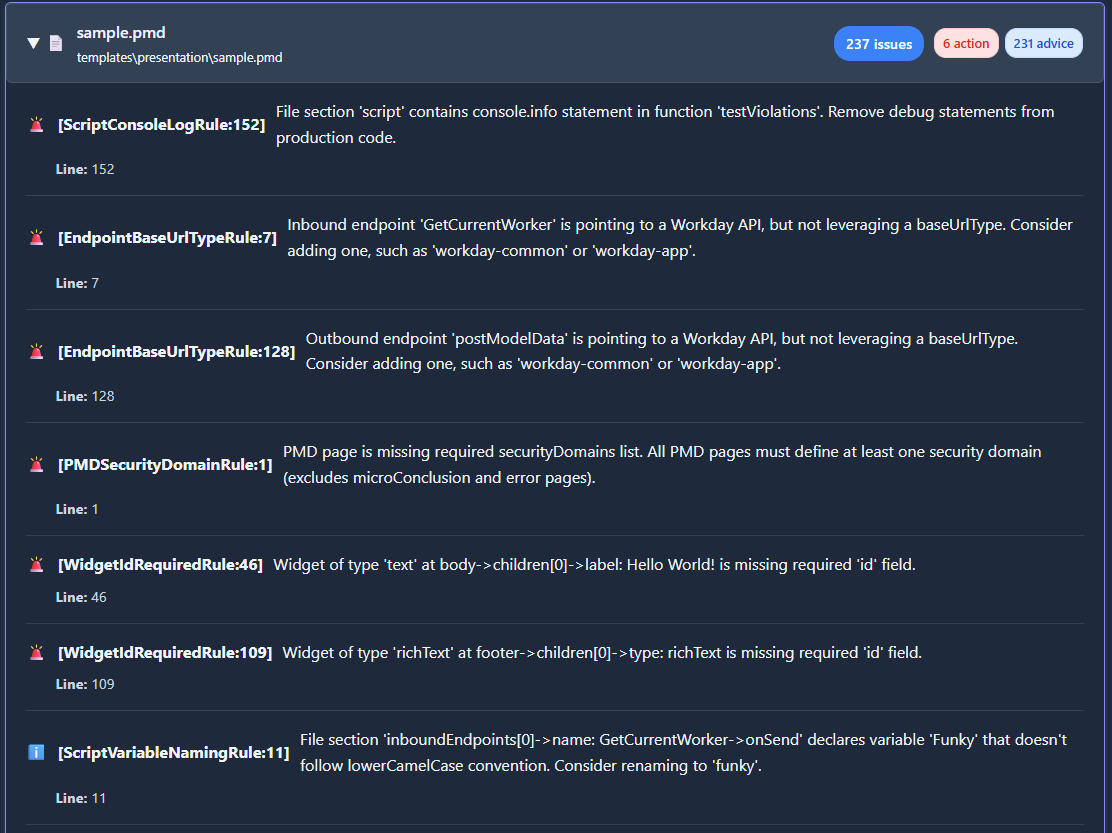
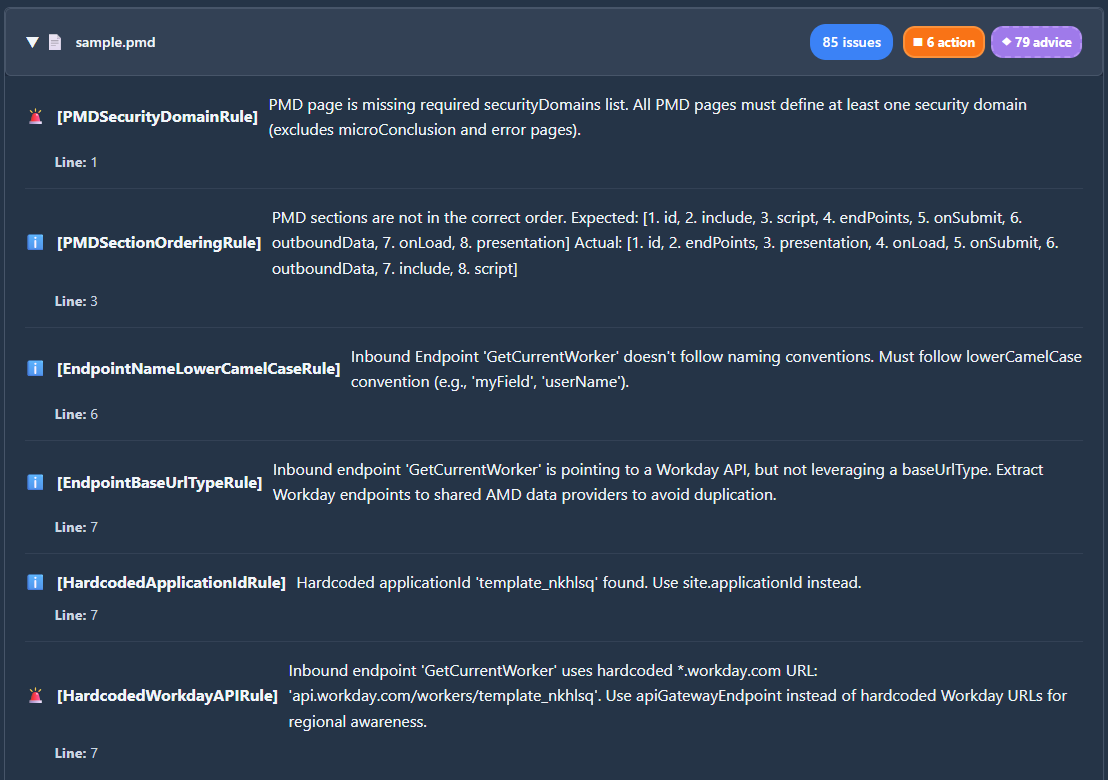
assets: Updated screenshots to match current UX for v1.0.

diff --git a/README.md b/README.md
@@ -127,6 +127,9 @@ Layered config system protects your customizations during updates. Your personal
 **Issues View:**
 ![Issues View](assets/issues-dark.png)
 
+**Issues Breakdown:**
+![Issues Breakdown](assets/details-dark.png)
+
 **Configuration View:**
 ![Configuration View](assets/config-dark.png)
 
